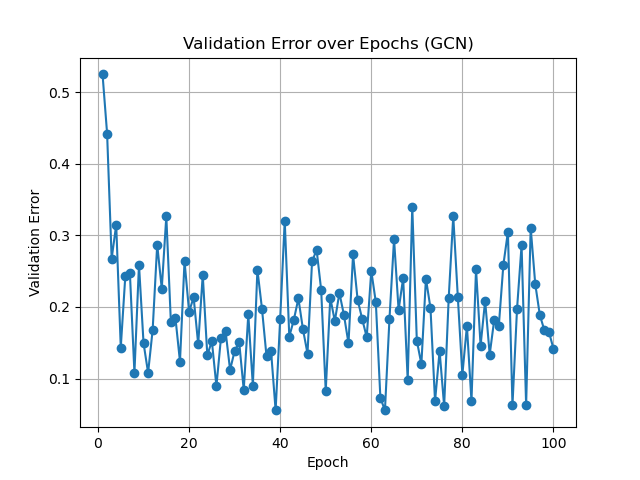
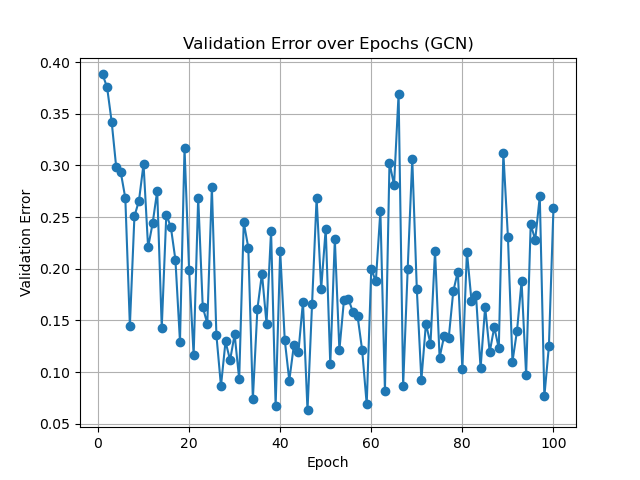
update results

diff --git a/datasets/scenes_cluster.py b/datasets/scenes_cluster.py
@@ -107,8 +107,6 @@ class ScenesGCNDataset(InMemoryDataset):
             coords = torch.tensor([
                 list(map(float, G_nx.nodes[n]['position'].split(',')))
                 for n in G_nx.nodes()], dtype=torch.float)
-            # region one-hot
-            sem_feat = F.one_hot(y, num_classes=self.num_regions).float()
             # community one-hot
             com_feat = F.one_hot(torch.tensor(membership,dtype=torch.long), num_classes=self.max_com).float()
             # objects hist
@@ -123,7 +121,8 @@ class ScenesGCNDataset(InMemoryDataset):
                 if hist.sum()>0: hist /= hist.sum()
                 obj_hist.append(hist)
             obj_hist = torch.stack(obj_hist, dim=0)
-            data.x = torch.cat([coords, sem_feat, com_feat, obj_hist], dim=1)
+            data.x = torch.cat([coords, com_feat, obj_hist], dim=1)
+
 
             # 边特征
             row, col = data.edge_index

diff --git a/leiden_Sage_train.py b/leiden_Sage_train.py
@@ -143,5 +143,4 @@ with torch.no_grad():
         tot += data.num_nodes
 print(f"Test Accuracy: {correct / tot:.4f}")
 
-# Test Accuracy: 0.9362
-# Test Accuracy: 0.9480
+# Test Accuracy: 0.9677

diff --git a/leiden_Gcn_train.py b/leiden_Gcn_train.py
@@ -142,4 +142,4 @@ with torch.no_grad():
         tot += data.num_nodes
 print(f"Test Accuracy: {correct / tot:.4f}")
 
-# Test Accuracy: 0.9197
+# Test Accuracy: 0.8745

diff --git a/leiden_Gine_train.py b/leiden_Gine_train.py
@@ -167,4 +167,4 @@ with torch.no_grad():
         tot += data.num_nodes
 print(f"Test Accuracy: {correct / tot:.4f}")
 
-# Test Accuracy: 0.8135
+# Test Accuracy: 0.8398
